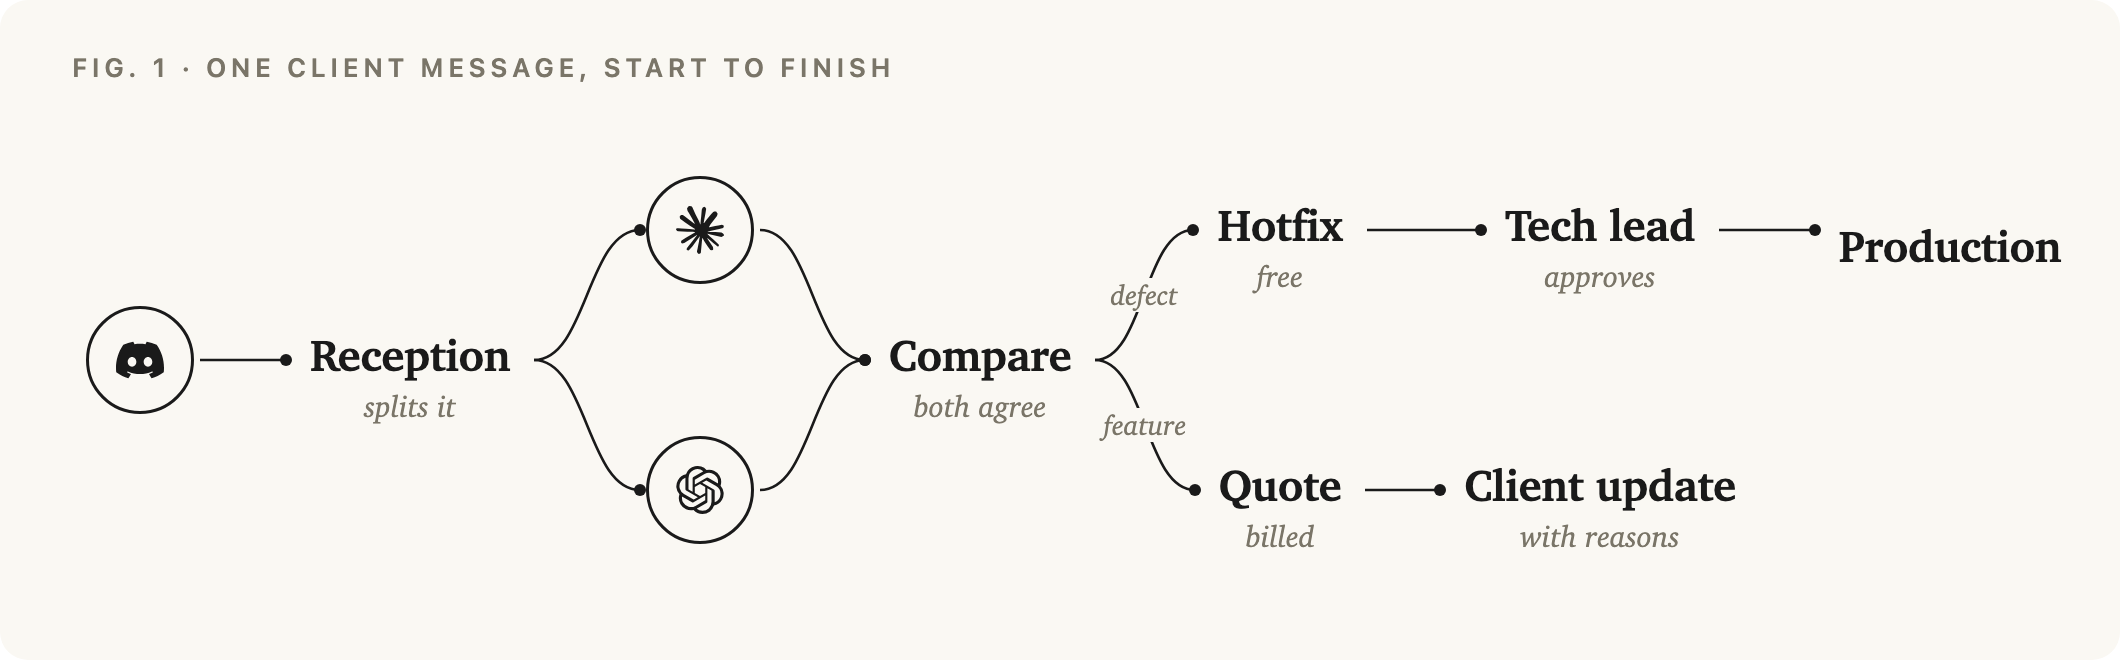
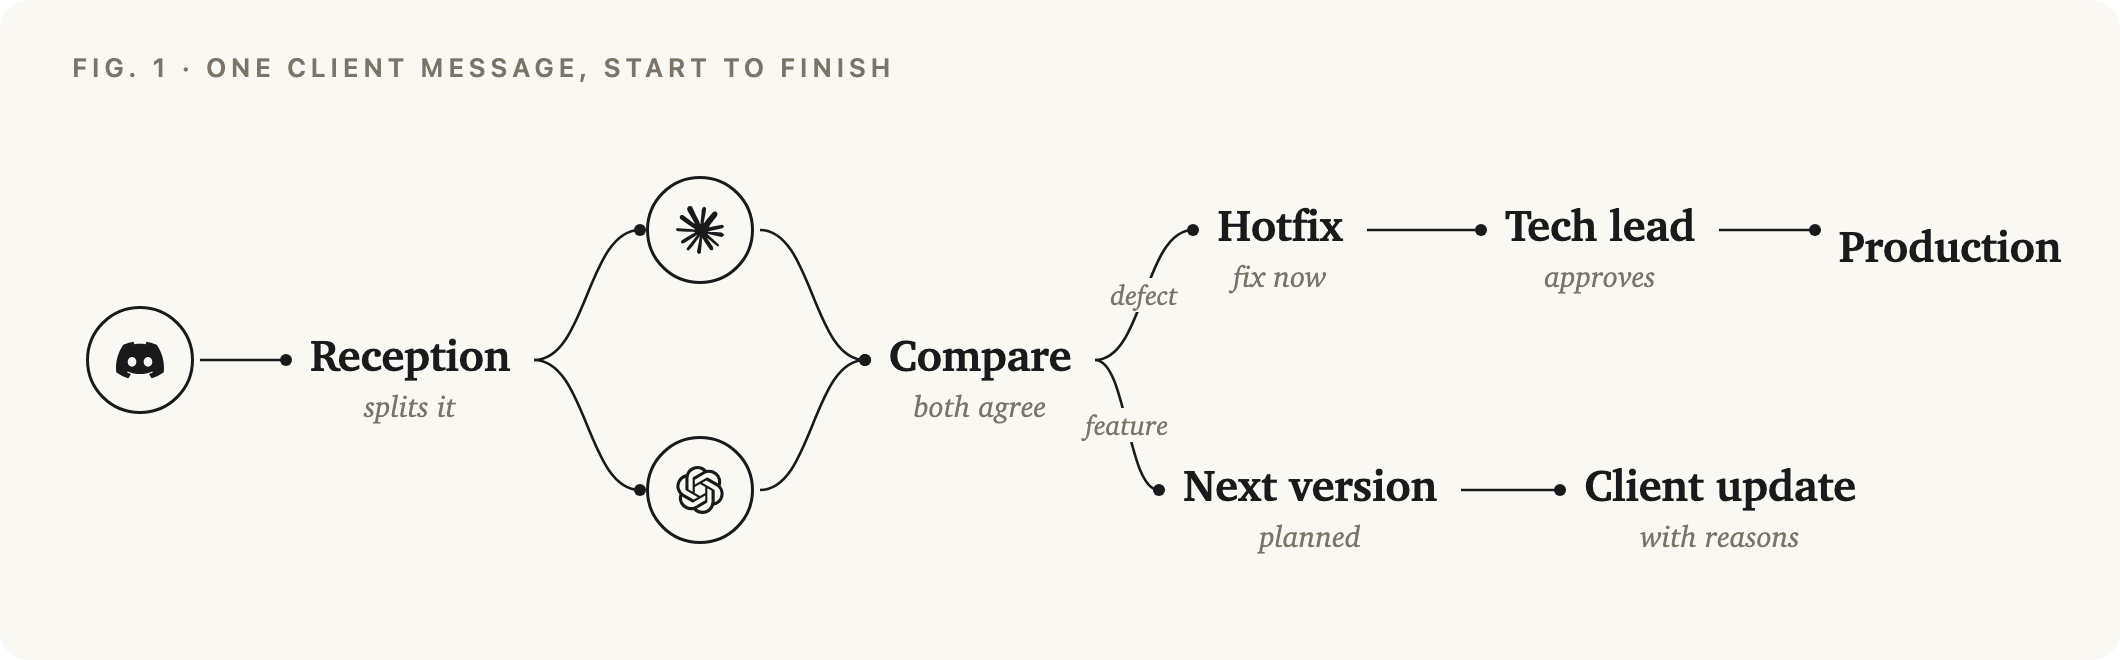
Blog: focus on the workflow, no payment wording

diff --git a/docs/blog/diagram.html b/docs/blog/diagram.html
@@ -20,8 +20,8 @@ const S=n=>`https://cdn.jsdelivr.net/npm/simple-icons@13.21.0/icons/${n}.svg`;
 // id, x, y, logo or [title, note]
 const N=[["msg",70,180,"discord"],["rec",205,180,["Reception","splits it"]],
 ["ver",350,115,"claude"],["con",350,245,"openai"],["cmp",490,180,["Compare","both agree"]],
-["fix",640,115,["Hotfix","free"]],["lead",800,115,["Tech lead","approves"]],["prod",975,115,["Production",""]],
-["quote",640,245,["Quote","billed"]],["upd",800,245,["Client update","with reasons"]]];
+["fix",640,115,["Hotfix","fix now"]],["lead",800,115,["Tech lead","approves"]],["prod",975,115,["Production",""]],
+["quote",655,245,["Next version","planned"]],["upd",860,245,["Client update","with reasons"]]];
 const E=[["msg","rec"],["rec","ver"],["rec","con"],["ver","cmp"],["con","cmp"],["cmp","fix","defect"],["cmp","quote","feature"],["fix","lead"],["lead","prod"],["quote","upd"]];
 const P={},n=document.getElementById("n"),svg=document.querySelector("svg");
 for(const [id,x,y,v] of N){P[id]=[x,y];

diff --git a/docs/blog/post.md b/docs/blog/post.md
@@ -15,13 +15,13 @@ A few things make it more than a chatbot in a channel. Rooms decide who sees wha
 
 ## How I came to it
 
-I discovered Switch through the Flip the Switch Hackathon and entered the Best Business Workflow track. I wanted to test it on a problem I know well from client work: a client sends one message that mixes a bug report with a new feature request, and the team loses time sorting out what is owed for free and what should be billed.
+I discovered Switch through the Flip the Switch Hackathon and entered the Best Business Workflow track. I wanted to test it on a problem I know well from client work: a client sends one message that mixes a bug report with a new feature request, and the team loses time working out what each part is and where it should go.
 
 ## What I built with it
 
 I built **Scope Firewall**, a team of five agents that follows a client project in Discord, from the first brief to delivery.
 
-It turns the client's brief into a contract of rules the app must pass, proposes a delivery date from the real work, splits every client message into separate requests, checks each one with two independent AI opinions, and sorts it into a free fix or a paid quote. People keep every real decision: the developer estimates, the project manager accepts the date, the tech lead approves production.
+It turns the client's brief into a contract of rules the app must pass, proposes a delivery date from the real work, splits every client message into separate requests, checks each one with two independent AI opinions, and routes it: a defect goes straight to a fix, anything new is planned for the next version. People keep every real decision: the developer estimates, the project manager accepts the date, the tech lead approves production.
 
 ![The workflow, built on Switch](https://raw.githubusercontent.com/ru-ji/scope-firewall/docs/blog-post/docs/blog/diagram.png)
 
